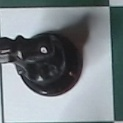
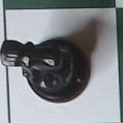
finished collecting training data for black knight

diff --git a/brain.py b/brain.py
@@ -212,7 +212,7 @@ def main():
                     square.saveImage(squares)
                 return
                 '''
-                collect2PData(board, squares, 62, 63, "white", "knight", 8, 7)
+                collect2PData(board, squares, 62, 63, "black", "knight", 8, 7)
                 #collectData(board, squares)
                 cv2.imshow("Frame", squares[22:136, 517:640])
                 if cv2.waitKey(1) & 0xFF == ord('q'):
